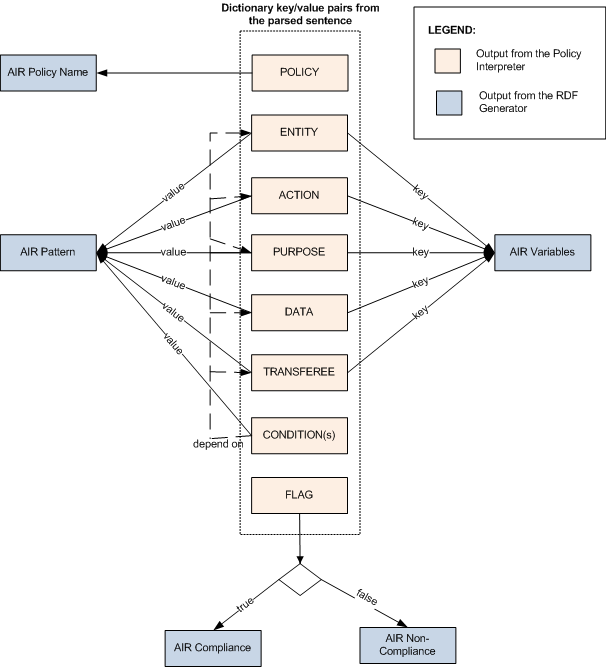
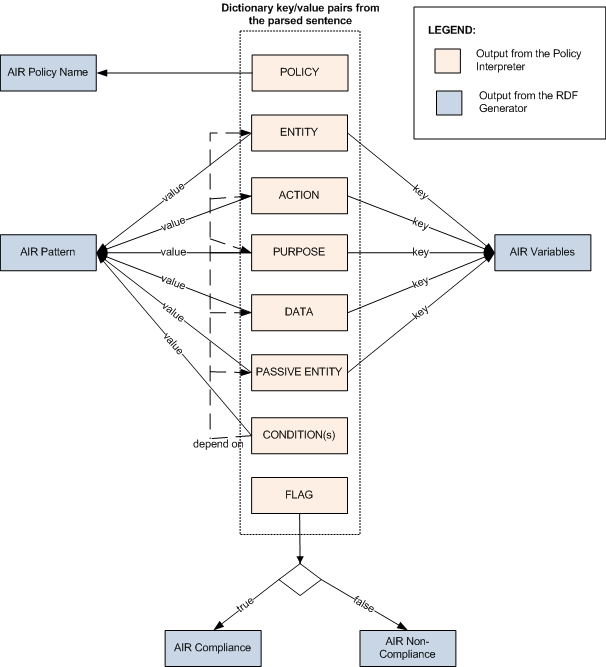
more additions to the RDF Generator write-up

Changed region(s): [[0.5644, 0.8696, 0.7723, 1.0], [0.4158, 0.5397, 0.5644, 0.5697]]

diff --git a/doc/www/implementation_oshani.html b/doc/www/implementation_oshani.html
@@ -234,14 +234,19 @@
             </p>
             <br/>
             
-            <p>AIR is a rule based policy language written in RDF for accountability and access control. Each AIR policy consists of one or more rules, where each rule
-            is made up of a pattern that when matched causes an <code>action</code> to be fired. Optionally there could be <code>descriptions</code> and <code>justifications</code> 
-            well. An <code>action</code> can either be an <code>assertion</code> which is a set of facts  that are added to the knowledge base or a nested <code>rule</code>.
-            </p>
-            <br/>
-            <pre>
+            <p>AIR is a rule based policy language written in RDF for accountability and access control. Each AIR policy consists of one or more rules:</p>
+                        <pre>
  policy = { rule }
+			</pre> 
+	        <p>Each rule is made up of a pattern that when matched causes an <code>action</code> to be fired. Optionally there could be <code>description</code> and <code>justification</code> 
+            elements as well.</p>
+                        <pre>
  rule = { pattern, action [ description justification ]} 
+ 			</pre> 
+            
+            <p> An <code>action</code> can either be an <code>assertion</code> (which is a set of facts  that are added to the knowledge base) or a nested <code>rule</code>.
+            </p>
+            <pre>
  action = { assertion | rule } 
 			</pre> 
   			
@@ -250,6 +255,7 @@
             <pre>
 :MyFirstPolicy a air:Policy;
 air:rule [
+	air:variable { ... };
 	air:pattern { ... };
 	air:assertion { ... };
 	air:rule [ ... ]
@@ -267,10 +273,12 @@ air:rule [
             predicate / object in the RDF.
             </p><br/>
             
-            <p>The approach taken in constructing the AIR policy is shown in the following diagram:</p>
-            <img src="images/rdfgen.png" alt="RDF Generation"/><br/>
+            <p>The following diagram shows how the dictionary keys and values from the Policy Interpreter is used in constructing the AIR policy.</p>
+            <img src="images/policy_parser.png" alt="RDF Generation"/><br/>
+            <br/>
             
-            <p></p><br/>
+            <p>The dictionary element "POLICY" is used to name the policy. If the key values of elements "ENTITY", "ACTION", "PURPOSE, "DATA" are "PASSIVE ENTITY"
+            are existing they are used to assign <code>air:variable</code>s</p><br/>
             
             <p></p><br/>
             
